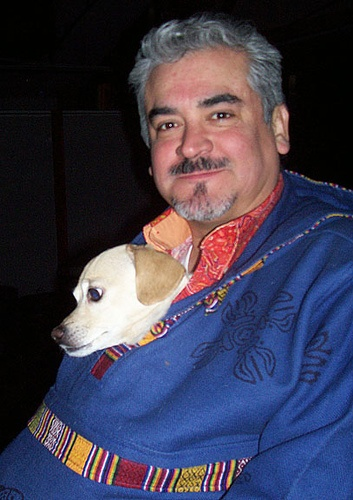
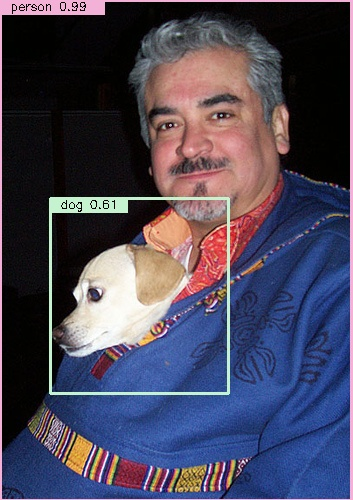
update README.md

Changed region(s): [[0.0, 0.0, 1.0, 1.0], [0.1246, 0.39, 0.6544, 0.81]]

diff --git a/config.py b/config.py
@@ -39,7 +39,7 @@ def get_args_parser():
 
     # demo
     # parser.add_argument('--demo_root', type=str, help='set demo root')
-    parser.add_argument('--demo_root', type=str, default=r'C:\Users\csm81\Desktop\yesul', help='set demo root')
+    parser.add_argument('--demo_root', type=str, default=r'C:\Users\csm81\Desktop\voc_test', help='set demo root')
     parser.add_argument('--demo_epoch', type=str, default='best')
     parser.add_argument('--demo_image_type', type=str, default='jpg')
     parser.set_defaults(demo_vis=True)

diff --git a/README.md b/README.md
@@ -38,3 +38,8 @@ VOC
 
 #### 2. quantitative result
 
+![000001_input](./figures/000001_.jpg)
+![000001_result](./figures/000001.jpg)
+
+![000015](./figures/000010.jpg)
+![000021](./figures/000021.jpg)
